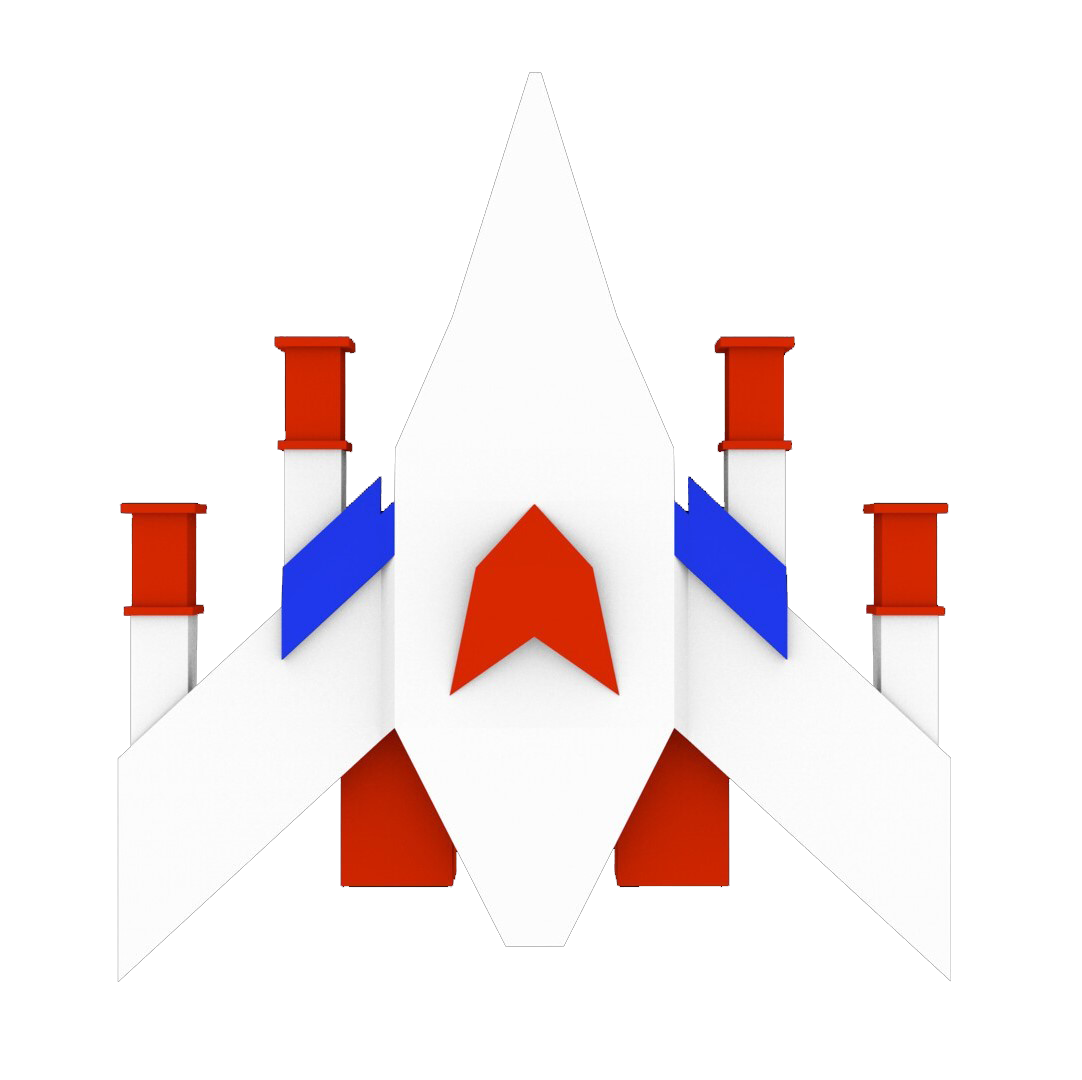
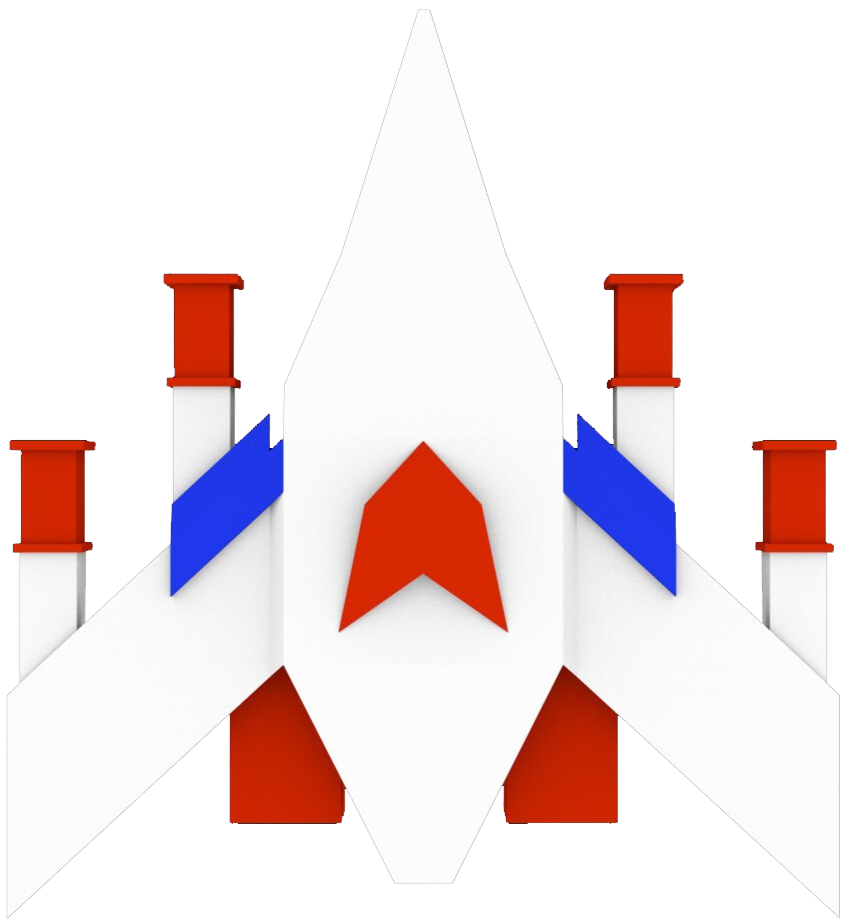
25-4-24

diff --git a/pryBordigaGabriel/clsNave.cs b/pryBordigaGabriel/clsNave.cs
@@ -25,15 +25,15 @@ namespace pryBordigaGabriel
             nombre = "jugador1";
             puntosDaño = 1;
             imgNave = new PictureBox();
-            imgNave.SizeMode = PictureBoxSizeMode.Zoom;
-            imgNave.ImageLocation = "../../../../Images/PicturesJuego/nave.png";
+            imgNave.SizeMode = PictureBoxSizeMode.AutoSize;
+            imgNave.ImageLocation = "../../../../Images/PicturesJuego/nave3.png";
         }
 
         public void crearEnemigo(string nombreEnemigo, Form form)
         {
             Random rand = new Random();
             int posicionX = rand.Next(0, form.Width - 100);
-            int posicionY = rand.Next(50, 500);
+            int posicionY = rand.Next(50, 300);
             Point posicion = new Point(posicionX, posicionY); 
 
             string imagenEnemigo = imagenesEnemigos[rand.Next(imagenesEnemigos.Count)];
@@ -42,8 +42,23 @@ namespace pryBordigaGabriel
             enemigo.vida = 25;
             enemigo.posicion = posicion;
             enemigo.imgEnemigo = new PictureBox();
-            enemigo.imgEnemigo.SizeMode = PictureBoxSizeMode.Zoom;
+            enemigo.imgEnemigo.SizeMode = PictureBoxSizeMode.AutoSize;
             enemigo.imgEnemigo.ImageLocation = "../../../../Images/PicturesJuego/" + imagenEnemigo;
+            enemigos.Add(enemigo);
+
+            enemigo.timerDisparo.Interval = rand.Next(2200, 3001); // Intervalo aleatorio entre 2200 y 3000 milisegundos
+            enemigo.timerDisparo.Tick += (sender, e) =>
+            {
+                PictureBox balaEnemigo = enemigo.disparar();
+                if (balaEnemigo != null)
+                {
+                    form.Controls.Add(balaEnemigo);
+                    balasEnemigos.Add(balaEnemigo);
+                    enemigo.balasEnemigo.Add(balaEnemigo); // Agrega la bala a la lista de balas del enemigo
+                }
+            };
+            enemigo.timerDisparo.Start();
+
             enemigos.Add(enemigo);
         }
 
@@ -51,14 +66,14 @@ namespace pryBordigaGabriel
         {
             PictureBox bala = new PictureBox();
             bala.SizeMode = PictureBoxSizeMode.Zoom;
-            bala.ImageLocation = "../../../../Images/PicturesJuego/bala.png";
-            bala.Left = imgNave.Left + imgNave.Width / 2 - bala.Width / 9; // Ajustar la posición inicial de la bala
+            bala.ImageLocation = "../../../../Images/PicturesJuego/bala2.png";
+            bala.Left = imgNave.Left + imgNave.Width / 2 - bala.Width / 11; // Ajustar la posición inicial de la bala
             bala.Top = imgNave.Top;
             bala.Width = 20;
             bala.Height = 20;
             balas.Add(bala);
         }
-
+        public int score = 0;
         public void moverBalas(Form form, clsNave nave)
         {
             for (int i = balas.Count - 1; i >= 0; i--)
@@ -73,14 +88,22 @@ namespace pryBordigaGabriel
                         enemigo.vida -= 15;
                         if (enemigo.vida <= 0)
                         {
+                            enemigo.timerDisparo.Stop();
+                            enemigo.timerDisparo.Dispose();
+                            foreach (PictureBox balaEnemiga in enemigo.balasEnemigo)
+                            {
+                                form.Controls.Remove(bala);
+                                balasEnemigos.Remove(bala);
+                            }
+                            score++;
                             // Crear una nueva explosión en la posición del enemigo
-                            Point posicionExplosion = new Point(enemigo.posicion.X + 25, enemigo.posicion.Y); // Ajusta el valor "50" según lo lejos que quieras que esté la explosión
+                            Point posicionExplosion = new Point(enemigo.posicion.X, enemigo.posicion.Y);
                             Explosion explosion = new Explosion(posicionExplosion);
                             form.Controls.Add(explosion.imgExplosion);
 
                             // Crear un temporizador para la animación de la explosión
                             System.Windows.Forms.Timer timerExplosion = new System.Windows.Forms.Timer();
-                            timerExplosion.Interval = 100; // Ajusta el intervalo según la velocidad de la animación que desees
+                            timerExplosion.Interval = 100;
                             timerExplosion.Tick += (sender, e) =>
                             {
                                 if (!explosion.NextFrame())
@@ -89,16 +112,18 @@ namespace pryBordigaGabriel
                                     timerExplosion.Stop();
                                     form.Controls.Remove(explosion.imgExplosion);
                                 }
-                                string nombreEnemigo = "malito" + (enemigos.Count + 1);
-                                nave.crearEnemigo(nombreEnemigo, form);
-                                Enemigo nuevoEnemigo = nave.enemigos.Last();
-                                nuevoEnemigo.imgEnemigo.Location = nuevoEnemigo.posicion;
-                                form.Controls.Add(nuevoEnemigo.imgEnemigo);
                             };
                             timerExplosion.Start(); // Iniciar el temporizador
 
                             form.Controls.Remove(enemigo.imgEnemigo);
                             enemigos.RemoveAt(j);
+
+                            // Crear un nuevo enemigo después de eliminar al enemigo derrotado
+                            string nombreEnemigo = "malito" + (enemigos.Count + 1);
+                            nave.crearEnemigo(nombreEnemigo, form);
+                            Enemigo nuevoEnemigo = nave.enemigos.Last();
+                            nuevoEnemigo.imgEnemigo.Location = nuevoEnemigo.posicion;
+                            form.Controls.Add(nuevoEnemigo.imgEnemigo);
                         }
                         form.Controls.Remove(bala);
                         balas.RemoveAt(i);

diff --git a/pryBordigaGabriel/frmJuego.Designer.cs b/pryBordigaGabriel/frmJuego.Designer.cs
@@ -28,49 +28,65 @@
         /// </summary>
         private void InitializeComponent()
         {
-            this.progressBar1 = new System.Windows.Forms.ProgressBar();
-            this.label1 = new System.Windows.Forms.Label();
-            this.SuspendLayout();
+            progressBar1 = new ProgressBar();
+            lbl = new Label();
+            lblScore = new Label();
+            SuspendLayout();
             // 
             // progressBar1
             // 
-            this.progressBar1.Location = new System.Drawing.Point(10, 30);
-            this.progressBar1.Name = "progressBar1";
-            this.progressBar1.Size = new System.Drawing.Size(0, 0);
-            this.progressBar1.TabIndex = 0;
+            progressBar1.Location = new Point(10, 30);
+            progressBar1.Name = "progressBar1";
+            progressBar1.Size = new Size(0, 0);
+            progressBar1.TabIndex = 0;
             // 
-            // label1
+            // lbl
             // 
-            this.label1.AutoSize = true;
-            this.label1.ForeColor = System.Drawing.SystemColors.ButtonHighlight;
-            this.label1.Location = new System.Drawing.Point(10, 33);
-            this.label1.Name = "label1";
-            this.label1.Size = new System.Drawing.Size(33, 15);
-            this.label1.TabIndex = 1;
-            this.label1.Text = "VIDA";
+            lbl.AutoSize = true;
+            lbl.Font = new Font("ROG Fonts", 9F, FontStyle.Regular, GraphicsUnit.Point);
+            lbl.ForeColor = SystemColors.ButtonHighlight;
+            lbl.Location = new Point(10, 33);
+            lbl.Name = "lbl";
+            lbl.Size = new Size(41, 14);
+            lbl.TabIndex = 1;
+            lbl.Text = "VIDA";
+            // 
+            // lblScore
+            // 
+            lblScore.AutoSize = true;
+            lblScore.BackColor = Color.Black;
+            lblScore.Font = new Font("ROG Fonts", 9F, FontStyle.Regular, GraphicsUnit.Point);
+            lblScore.ForeColor = Color.White;
+            lblScore.Location = new Point(605, 15);
+            lblScore.Name = "lblScore";
+            lblScore.Size = new Size(59, 14);
+            lblScore.TabIndex = 2;
+            lblScore.Text = "SCORE";
             // 
             // frmJuego
             // 
-            this.AutoScaleDimensions = new System.Drawing.SizeF(7F, 15F);
-            this.AutoScaleMode = System.Windows.Forms.AutoScaleMode.Font;
-            this.BackColor = System.Drawing.Color.Black;
-            this.ClientSize = new System.Drawing.Size(700, 700);
-            this.Controls.Add(this.label1);
-            this.Controls.Add(this.progressBar1);
-            this.FormBorderStyle = System.Windows.Forms.FormBorderStyle.None;
-            this.Name = "frmJuego";
-            this.StartPosition = System.Windows.Forms.FormStartPosition.CenterScreen;
-            this.Text = "Juego";
-            this.Load += new System.EventHandler(this.frmJuego_Load);
-            this.KeyDown += new System.Windows.Forms.KeyEventHandler(this.frmJuego_KeyDown);
-            this.ResumeLayout(false);
-            this.PerformLayout();
-
+            AutoScaleDimensions = new SizeF(7F, 15F);
+            AutoScaleMode = AutoScaleMode.Font;
+            BackColor = Color.Black;
+            ClientSize = new Size(700, 700);
+            Controls.Add(lblScore);
+            Controls.Add(lbl);
+            Controls.Add(progressBar1);
+            FormBorderStyle = FormBorderStyle.None;
+            Name = "frmJuego";
+            StartPosition = FormStartPosition.CenterScreen;
+            Text = "Juego";
+            Load += frmJuego_Load;
+            KeyDown += frmJuego_KeyDown;
+            KeyUp += frmJuego_KeyUp_1;
+            ResumeLayout(false);
+            PerformLayout();
         }
 
         #endregion
 
         private ProgressBar progressBar1;
-        private Label label1;
+        private Label lbl;
+        private Label lblScore;
     }
 }

diff --git a/pryBordigaGabriel/frmJuego.cs b/pryBordigaGabriel/frmJuego.cs
@@ -26,24 +26,28 @@ namespace pryBordigaGabriel
             keys.Add(Keys.Left, false);
             keys.Add(Keys.Right, false);
 
+            
+
 
             // Crear la barra de vida
             barraVida = new ProgressBar();
             barraVida.Location = new Point(10, 10); // Posicionar la barra de vida en la parte superior izquierda
-            barraVida.Width = 100; 
-            barraVida.Height = 20; 
-            barraVida.Maximum = 100; 
-            barraVida.Value = 100; 
-            this.Controls.Add(barraVida); 
-            System.Windows.Forms.Timer timer2 = new System.Windows.Forms.Timer(); 
-            timer1.Interval = 100; 
+            barraVida.Width = 100;
+            barraVida.Height = 20;
+            barraVida.Maximum = 100;
+            barraVida.Value = 100;
+            this.Controls.Add(barraVida);
+            System.Windows.Forms.Timer timer2 = new System.Windows.Forms.Timer();
+            timer1.Interval = 100;
             timer1.Enabled = true;
             timer1.Tick += new EventHandler(timer1_Tick);
-            timer2.Interval = 2000; 
-            timer2.Enabled = true;
-            timer2.Tick += new EventHandler(timerDisparoEnemigos_Tick);
+            Random rand = new Random();
+            //timer2.Interval = rand.Next(2200, 3001); // Genera un número aleatorio entre 2200 y 3000
+
+            //timer2.Enabled = true;
+            //timer2.Tick += new EventHandler(timerDisparoEnemigos_Tick);
             nave.crearJugador();
-            nave.imgNave.Location = new Point(this.Width / 2, this.Height - nave.imgNave.Height); // Posicionar la nave en el centro abajo
+            nave.imgNave.Location = new Point(this.Width / 2, this.Height - nave.imgNave.Height - 15); // Posicionar la nave en el centro abajo
             for (int i = 0; i < 4; i++)
             {
                 nave.crearEnemigo("malito" + (i + 1), this);
@@ -90,28 +94,27 @@ namespace pryBordigaGabriel
 
         private void timer1_Tick(object sender, EventArgs e)
         {
+            lblScore.Text = "SCORE: " + nave.score;
             bool b = false;
-
-            
 
             if (nave.vida > 0)
             {
                 nave.moverBalas(this, nave);
                 nave.moverBalasEnemigos(this, barraVida);
             }
-            else 
+            else
             {
                 b = true;
                 timer1.Stop();
             }
 
-            if (b) 
+            if (b)
             {
                 MessageBox.Show("¡Has perdido!");
                 this.Close();
                 frmJuego juego = new frmJuego();
                 juego.ShowDialog();
-                
+
             }
             foreach (Enemigo enemigo in nave.enemigos)
             {
@@ -145,7 +148,7 @@ namespace pryBordigaGabriel
 
         }
 
-        
+
 
         private void timerDisparoEnemigos_Tick(object sender, EventArgs e)
         {
@@ -156,9 +159,13 @@ namespace pryBordigaGabriel
                 nave.balasEnemigos.Add(balaEnemigo);
             }
 
-           
+
 
         }
-        
+
+        private void frmJuego_KeyUp_1(object sender, KeyEventArgs e)
+        {
+            
+        }
     }
 }

diff --git a/pryBordigaGabriel/Enemigo.cs b/pryBordigaGabriel/Enemigo.cs
@@ -11,17 +11,23 @@ namespace pryBordigaGabriel
         public PictureBox imgEnemigo = new PictureBox();
         public int vida = 25;
         public Point posicion; // Nueva propiedad para la posición
+        public System.Windows.Forms.Timer timerDisparo = new System.Windows.Forms.Timer();
+        public List<PictureBox> balasEnemigo = new List<PictureBox>();
         public PictureBox disparar()
         {
+
             PictureBox bala = new PictureBox();
-            bala.SizeMode = PictureBoxSizeMode.Zoom;
-            bala.ImageLocation = "../../../../Images/PicturesJuego/balaEnemigo.png"; // Asegúrate de tener una imagen para la bala del enemigo
+            bala.SizeMode = PictureBoxSizeMode.AutoSize;
+            bala.ImageLocation = "../../../../Images/PicturesJuego/balaEnemigo2.png"; // Asegúrate de tener una imagen para la bala del enemigo
             bala.Left = imgEnemigo.Left + imgEnemigo.Width / 2 - bala.Width / 22; // La bala sale del centro del enemigo
             bala.Top = imgEnemigo.Bottom; // La bala sale de la parte inferior del enemigo
             bala.Width = 10;  // Ancho de la bala
             bala.Height = 10; // Altura de la bala
             return bala;
+
         }
+            
     }
+    
 
 }

diff --git a/pryBordigaGabriel/Explosion.cs b/pryBordigaGabriel/Explosion.cs
@@ -12,15 +12,15 @@ namespace pryBordigaGabriel
         private int frameIndex = 0;
         private List<string> frames = new List<string>()
     {
-        "explosion1.png",
-        "explosion2.png",
-        "explosion3.png",
+        "explosionn1.png",
+        "explosionn2.png",
+        "explosionn3.png",
         // Agrega aquí el resto de tus imágenes de explosión
     };
 
         public Explosion(Point position)
         {
-            imgExplosion.SizeMode = PictureBoxSizeMode.Zoom;
+            imgExplosion.SizeMode = PictureBoxSizeMode.AutoSize;
             imgExplosion.Location = position;
             imgExplosion.Width = 50; // Ajusta el tamaño de la explosión según sea necesario
             imgExplosion.Height = 50;

diff --git a/pryBordigaGabriel/Properties/Settings.Designer.cs b/pryBordigaGabriel/Properties/Settings.Designer.cs
@@ -12,7 +12,7 @@ namespace pryBordigaGabriel.Properties {
     
     
     [global::System.Runtime.CompilerServices.CompilerGeneratedAttribute()]
-    [global::System.CodeDom.Compiler.GeneratedCodeAttribute("Microsoft.VisualStudio.Editors.SettingsDesigner.SettingsSingleFileGenerator", "17.5.0.0")]
+    [global::System.CodeDom.Compiler.GeneratedCodeAttribute("Microsoft.VisualStudio.Editors.SettingsDesigner.SettingsSingleFileGenerator", "17.9.0.0")]
     internal sealed partial class Settings : global::System.Configuration.ApplicationSettingsBase {
         
         private static Settings defaultInstance = ((Settings)(global::System.Configuration.ApplicationSettingsBase.Synchronized(new Settings())));
